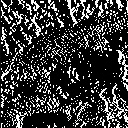
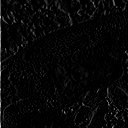
fixed

diff --git a/Question_11_20/answer_14.py b/Question_11_20/answer_14.py
@@ -22,19 +22,35 @@ out = np.zeros((H + pad*2, W + pad*2), dtype=np.float)
 out[pad:pad+H, pad:pad+W] = gray.copy().astype(np.float)
 tmp = out.copy()
 
+out_v = out.copy()
+out_h = out.copy()
+
 ## Sobel vertical
-#K = [[0., -1., 0.],[0., 1., 0.],[0., 0., 0.]]
+Kv = [[0., -1., 0.],[0., 1., 0.],[0., 0., 0.]]
 ## Sobel horizontal
-K = [[0., 0., 0.],[-1., 1., 0.], [0., 0., 0.]]
+Kh = [[0., 0., 0.],[-1., 1., 0.], [0., 0., 0.]]
 
 for y in range(H):
     for x in range(W):
-        out[pad+y, pad+x] = np.mean(K * (tmp[y:y+K_size, x:x+K_size]))
+        out_v[pad+y, pad+x] = np.sum(Kv * (tmp[y:y+K_size, x:x+K_size]))
+        out_h[pad+y, pad+x] = np.sum(Kh * (tmp[y:y+K_size, x:x+K_size]))
 
-out = out[pad:pad+H, pad:pad+W].astype(np.uint8)
+#out_v = np.abs(out_v)
+#out_h = np.abs(out_h)
+out_v[out_v < 0] = 0
+out_h[out_h < 0] = 0
+out_v[out_v > 255] = 255
+out_h[out_h > 255] = 255
+
+out_v = out_v[pad:pad+H, pad:pad+W].astype(np.uint8)
+out_h = out_h[pad:pad+H, pad:pad+W].astype(np.uint8)
 
 # Save result
-cv2.imwrite("out.jpg", out)
-cv2.imshow("result", out)
+cv2.imwrite("out_v.jpg", out_v)
+cv2.imshow("result", out_v)
+cv2.waitKey(0)
+
+cv2.imwrite("out_h.jpg", out_h)
+cv2.imshow("result", out_h)
 cv2.waitKey(0)
 cv2.destroyAllWindows()
